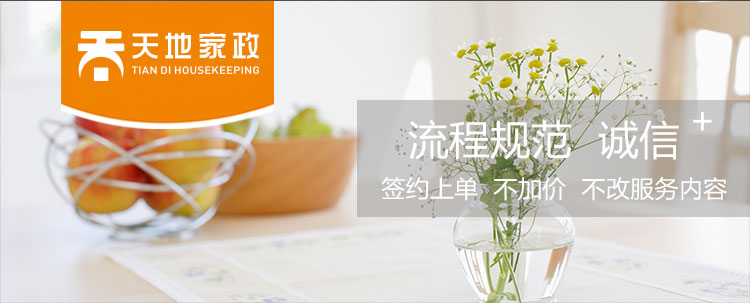
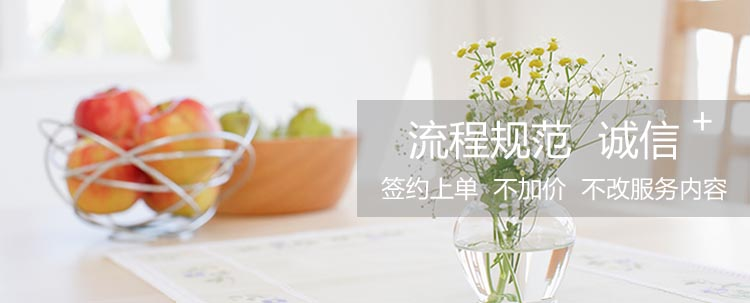
update

diff --git a/public/css/mobile.css b/public/css/mobile.css
@@ -9,6 +9,8 @@ body {
 
 p {line-height:1.6}
 
+#logo {position:absolute;z-index:10;left:5%;top:0px}
+
 .icon {
   width: 16px;
   height: 16px;

diff --git a/templates/mobile/index.twig.php b/templates/mobile/index.twig.php
@@ -11,17 +11,25 @@
     <script src="{{baseUrl}}/js/jquery-dist/jquery.min.js"></script>
     <script src="{{baseUrl}}/js/bootstrap-3.3.5-dist/js/bootstrap.min.js"></script>
     <script src="{{baseUrl}}/js/swiper-dist/js/swiper.jquery.min.js"></script>
-
+    <script>
+    var _hmt = _hmt || [];
+    (function() {
+      var hm = document.createElement("script");
+      hm.src = "//hm.baidu.com/hm.js?baf5d338db2829b710f913b529891e1c";
+      var s = document.getElementsByTagName("script")[0]; 
+      s.parentNode.insertBefore(hm, s);
+    })();
+    </script>
   </head>
   <body id="index">
+  	<div id="logo"><img src="{{baseUrl}}/images/mobile/logo-header.png" width="50%" /></div>
     <div class="container-fuild" style="padding-bottom: 60px;">
-
       <!--banner-->
       <div id="banner" class="swiper-container">
         <div class="swiper-wrapper">
           <div class="swiper-slide"><img src="{{baseUrl}}/images/mobile/banner_1.jpg" /></div>
-          <div class="swiper-slide"><img src="{{baseUrl}}/images/mobile/banner_1.jpg" /></div>
-          <div class="swiper-slide"><img src="{{baseUrl}}/images/mobile/banner_1.jpg" /></div>
+          <div class="swiper-slide"><img src="{{baseUrl}}/images/mobile/banner_2.jpg" /></div>
+          <div class="swiper-slide"><img src="{{baseUrl}}/images/mobile/banner_3.jpg" /></div>
         </div>
         <div class="swiper-pagination"></div>
       </div>
@@ -68,8 +76,8 @@
       <div id="ad" class="swiper-container">
         <div class="swiper-wrapper">
           <div class="swiper-slide"><img src="{{baseUrl}}/images/mobile/ad_1.jpg" /></div>
-          <div class="swiper-slide"><img src="{{baseUrl}}/images/mobile/ad_1.jpg" /></div>
-          <div class="swiper-slide"><img src="{{baseUrl}}/images/mobile/ad_1.jpg" /></div>
+          <div class="swiper-slide"><img src="{{baseUrl}}/images/mobile/ad_2.jpg" /></div>
+          <div class="swiper-slide"><img src="{{baseUrl}}/images/mobile/ad_3.jpg" /></div>
         </div>
         <div class="swiper-pagination"></div>
       </div>

diff --git a/src/routes.php b/src/routes.php
@@ -5,14 +5,11 @@ $app->get('/', function ($request, $response, $args) {
     // Sample log message
    // $this->logger->info("Slim-Skeleton '/' route");
 
-    // Render index view
-    $template = 'index.twig.php';
-    
     if(is_mobile()) {
-        $template = 'mobile/index.twig.php';
+        return $response->withHeader('Location',  $request->getUri()->getBaseUrl() . '/m');
     }
     
-    return $this->view->render($response, $template, ['pageTitle' => '首页', 'name' => 'name']);
+    return $this->view->render($response, 'index.twig.php', ['pageTitle' => '首页', 'name' => 'name']);
 });
 
 $app->get('/cleaning', function ($request, $response, $args) {
@@ -27,7 +24,6 @@ $app->get('/caring', function ($request, $response, $args) {
 $app->get('/mammy', function ($request, $response, $args) {
 	return $this->view->render($response, 'mammy.twig.php', ['pageTitle' => '月嫂 - 母婴护理', 'name' => 'name']);
 });
-	
 	
 $app->get('/baby', function ($request, $response, $args) {
 	return $this->view->render($response, 'baby.twig.php', ['pageTitle' => '育儿嫂', 'name' => 'name']);
@@ -45,5 +41,13 @@ $app->get('/hourly', function ($request, $response, $args) {
 
 $app->get('/about', function ($request, $response, $args) {
 	return $this->view->render($response, 'about.twig.php', ['pageTitle' => '关于天地', 'name' => 'name']);
+});
+
+/**
+ * 移动页面
+ */
+$app->get('/m', function ($request, $response, $args) {
+
+    return $this->view->render($response, 'mobile/index.twig.php', ['pageTitle' => '首页', 'name' => 'name']);
 });
 	

diff --git a/templates/mobile/layout.twig.php b/templates/mobile/layout.twig.php
@@ -1,16 +1,17 @@
 <!DOCTYPE html>
-<html lang="en">
-<head>
-	<meta charset="utf-8"/>
-	<title>{{ pageTitle ? pageTitle ~ ' - ' : '' }}天地家政</title>
-    <meta name="viewport" content="width=device-width, initial-scale=1, minimum-scale=1, maximum-scale=1">
-	<link rel="stylesheet" href="{{baseUrl}}/css/base.css" />
-    <script src="{{baseUrl}}/js/jquery.min.js"></script>
-	<script type="text/javascript" src="{{baseUrl}}/js/common.js" ></script>
-	<script type="text/javascript" src="{{baseUrl}}/js/lubotu.js" ></script>
-	<script type="text/javascript" src="{{baseUrl}}/js/jquery.slides.js" ></script>
-	<link rel="icon" type="image/png" href="{{baseUrl}}/images/favicon.png" />  
-	{% include 'header-tongji.twig.php' %}
+<html>
+  <head>
+    <meta charset="utf-8">
+    <meta http-equiv="X-UA-Compatible" content="IE=edge">
+    <meta name="viewport" content="width=device-width, initial-scale=1">
+    <title>天地家政</title>
+    <link href="{{baseUrl}}/js/bootstrap-3.3.5-dist/css/bootstrap.min.css" rel="stylesheet">
+    <link href="{{baseUrl}}/js/swiper-dist/css/swiper.min.css" rel="stylesheet">
+    <link href="{{baseUrl}}/css/mobile.css" rel="stylesheet">
+    <script src="{{baseUrl}}/js/jquery-dist/jquery.min.js"></script>
+    <script src="{{baseUrl}}/js/bootstrap-3.3.5-dist/js/bootstrap.min.js"></script>
+    <script src="{{baseUrl}}/js/swiper-dist/js/swiper.jquery.min.js"></script>
+    {% include 'header-tongji.twig.php' %}   
 </head>
 <body>
 	{% block content %}

diff --git a/templates/header-tongji.twig.php b/templates/header-tongji.twig.php
@@ -1,0 +1,9 @@
+<script>
+    var _hmt = _hmt || [];
+    (function() {
+      var hm = document.createElement("script");
+      hm.src = "//hm.baidu.com/hm.js?baf5d338db2829b710f913b529891e1c";
+      var s = document.getElementsByTagName("script")[0]; 
+      s.parentNode.insertBefore(hm, s);
+    })();
+</script>
